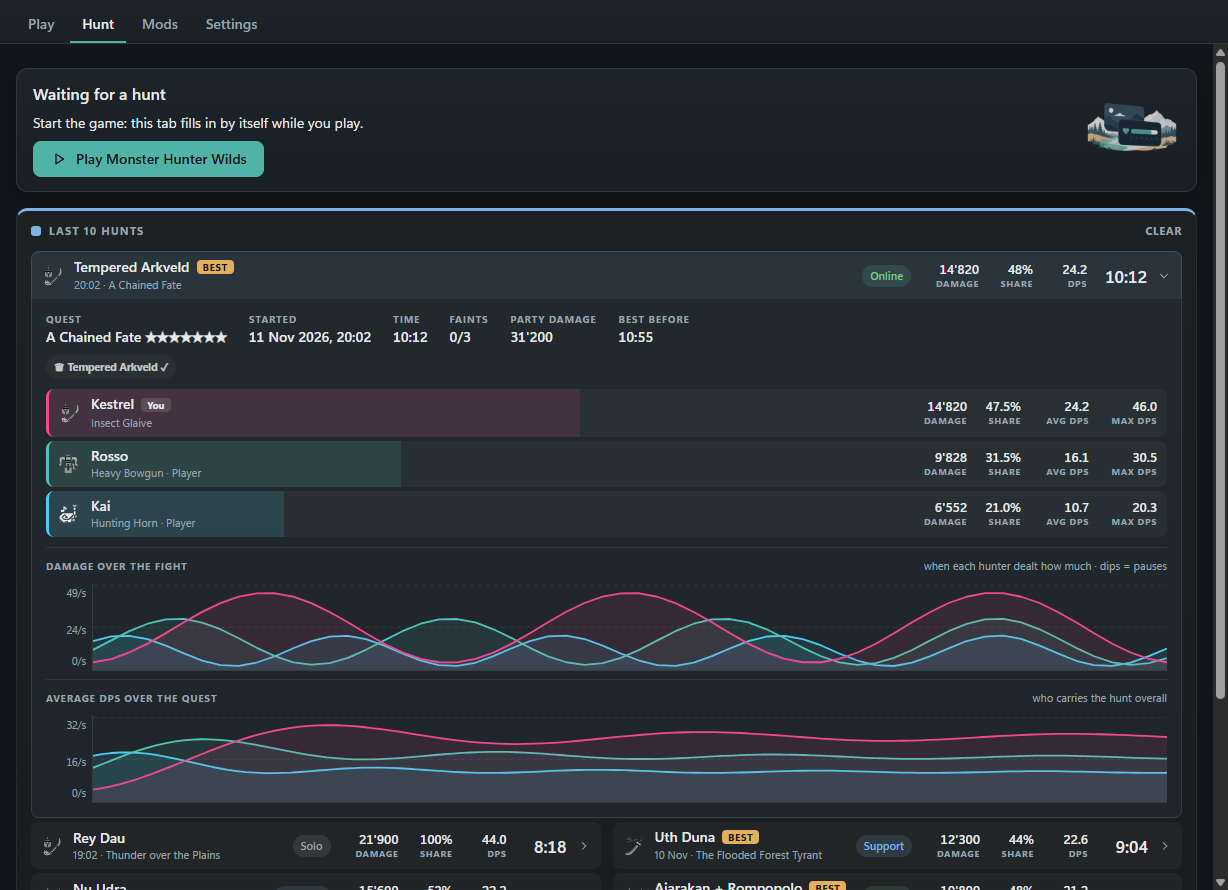
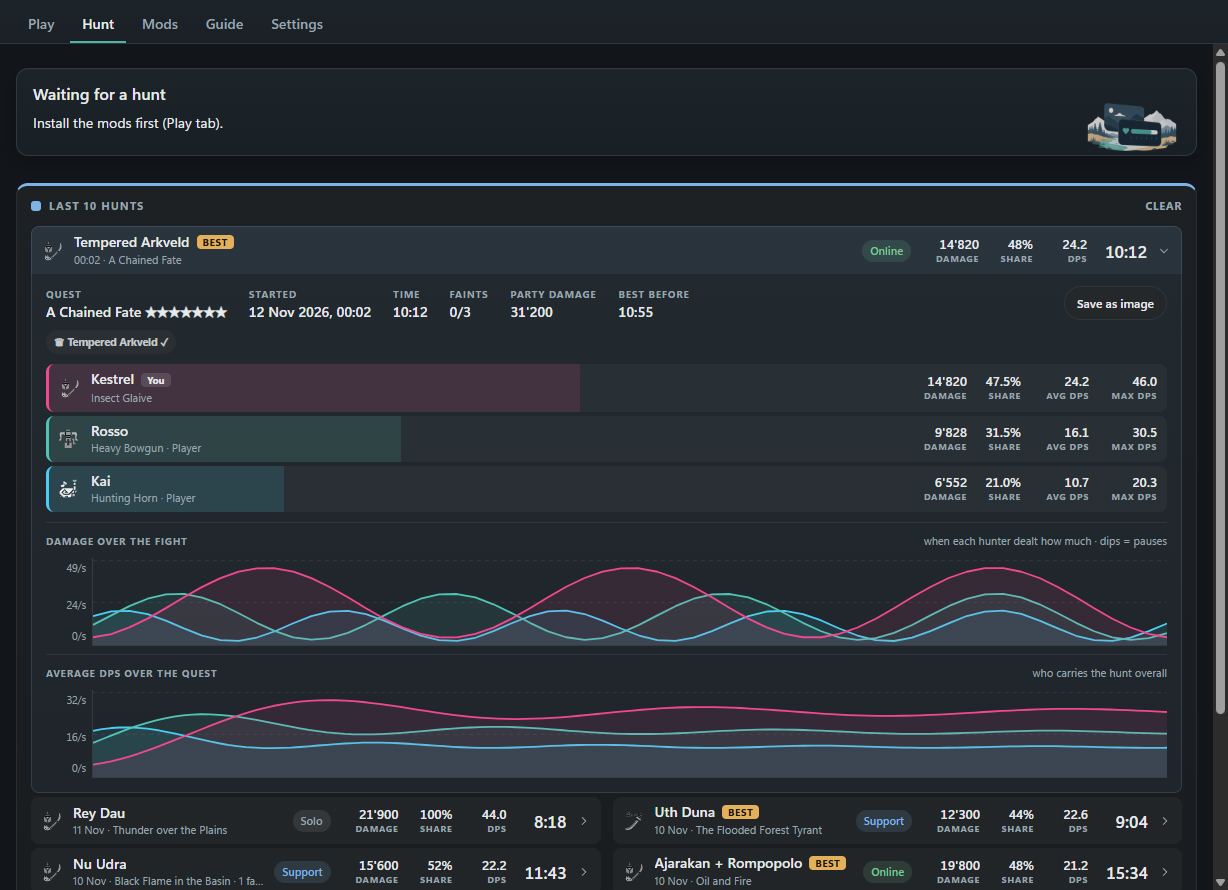
Front page for 0.9.0: weaknesses, guide, share picture

Changed region(s): [[0.0, 0.1213, 0.9902, 1.0], [0.1547, 0.0, 0.2476, 0.0303], [0.9902, 0.7584, 1.0, 0.8191]]

diff --git a/README.md b/README.md
@@ -10,17 +10,35 @@ A small Windows app for **Monster Hunter Wilds** (Steam). One click sets up the 
 
 ### Follow the hunt live
 
-Monster health, parts and status build-up on the left; everyone's damage, share and DPS on the right, with charts of the fight. It runs in its own window, so it fits a second screen and nothing covers the game.
+Monster health, parts and status build-up on the left; everyone's damage, share and DPS on the right, with charts of the fight. It runs in its own window, so it fits a second screen and nothing covers the game. The layout follows the window: two panels side by side on a wide window, one column on a narrow one.
+
+### Know what works on the monster
+
+Under the monster: every element and ailment with a bar from 1 (weak) to 3 (very strong), sorted from best to worst, and whether stun, exhaust, flash pods and sonic bombs work. A gold star line names the body parts where an element hits hardest. Left parts stand in the left column, right parts in the right.
 
 ### Race your personal best
 
-During a quest the app shows your best run of that quest next to the current one: best time, the damage you had at this exact minute back then, DPS and max DPS, and whether you are ahead or behind. Bests are kept per quest, because the same monster has different health in different quests.
+During a quest the app shows your best run of that quest next to the current one: best time, the damage you had at this exact minute back then, DPS and max DPS. Each row shows how far you are ahead (green) or behind (red). Bests are kept per quest, because the same monster has different health in different quests.
 
 ### Look back at your hunts
 
 Your last 10 successful hunts with time, damage, share and whether you went solo, with support hunters or online. Click one to open it: every party member's numbers and a chart of who dealt how much damage when.
 
 ![An opened hunt in the history](img/history.png)
+
+### Share a hunt
+
+**Save as image** on an opened hunt makes a picture of it: clear time, the key numbers, the party's damage and both charts. It is saved to your Pictures folder and copied, ready to paste into a chat.
+
+![A hunt saved as a picture](img/share.png)
+
+### A guide with every monster
+
+The Guide tab explains what every bar, ring and chip means and how each mod works. Under **Monsters** you look up the weaknesses and best spots of all 34 large monsters without being in a hunt.
+
+| How it works | Monsters |
+|---|---|
+| ![Guide: how it works](img/guide.png) | ![Guide: monsters](img/monsters.png) |
 
 ### One button to play
 
@@ -54,9 +72,10 @@ A short tour explains every tab, and you can replay it under Settings → About.
 ## Features
 
 - **One-click setup and removal** of [REFramework](https://github.com/praydog/REFramework) and a build of [HunterPie](https://github.com/HunterPie/HunterPie).
-- **Hunt tab**: target monster with health, stamina, capture line, weaknesses, parts and ailments; other monsters; damage meter with DPS, average and charts.
+- **Hunt tab**: target monster with health, stamina, capture line, parts and status build-up; element and ailment weaknesses in three steps and the best spots to hit; other monsters; damage meter with DPS, average and charts.
 - **Personal bests per quest** with a live comparison during the hunt.
-- **Hunt history**: the last 10 successful hunts, each with full party stats and a damage-over-the-fight chart.
+- **Hunt history**: the last 10 successful hunts, each with full party stats and a damage-over-the-fight chart, and **Save as image** to share one.
+- **Guide tab**: every feature explained, and the weaknesses of all 34 large monsters with search.
 - **Charm, Item and Artian editors, Artian parts, Shop Stock**: optional, off by default.
 - **Save backups** with restore, and a backup before anything is installed.
 - **In-app updates** and a desktop shortcut.
@@ -93,6 +112,7 @@ The exe is not signed, so Windows SmartScreen may show "Windows protected your P
 ## Credits and licences
 
 - **REFramework** by praydog, MIT licence, included unmodified.
+- **Monster weakness values** (elements, ailments, body parts) are game facts collected from the open data set at [wilds.mhdb.io](https://wilds.mhdb.io). A monster from a newer title update can be missing.
 - **HunterPie** by Haato and contributors, Apache License 2.0. The included build is **modified**: one extra read-only service writes the hunt data to a local file for this app. It is not an official HunterPie release. The Hunt tab follows HunterPie's widget design and uses its icons.
 - The editors and Shop Stock are written for Hunter AIO. Thanks to **lingsamuel**, whose Charm, Item and Artian editors showed how the game stores these things.
 - Details and licence texts: [licenses/](licenses/).
@@ -109,9 +129,12 @@ Eine kleine Windows-App für **Monster Hunter Wilds** (Steam). Ein Klick richtet
 
 ### Was die App zeigt
 
-- **Die Jagd live**: links Lebenspunkte, Körperteile und Statusaufbau des Monsters, rechts Schaden, Anteil und DPS aller Jäger mit Diagrammen. Eigenes Fenster, ideal für einen zweiten Bildschirm; nichts verdeckt das Spiel.
+- **Die Jagd live**: links Lebenspunkte, Körperteile und Statusaufbau des Monsters, rechts Schaden, Anteil und DPS aller Jäger mit Diagrammen. Eigenes Fenster, ideal für einen zweiten Bildschirm; nichts verdeckt das Spiel. Die Aufteilung passt sich der Fenstergröße an.
+- **Was beim Monster wirkt**: jedes Element und jeder Statuseffekt mit einem Balken von 1 (schwach) bis 3 (sehr stark), vom besten zum schlechtesten sortiert, dazu ob Betäubung, Erschöpfung, Blitzkapseln und Schallbomben wirken. Eine Zeile mit goldenem Stern nennt die Körperteile, an denen ein Element am stärksten trifft.
 - **Gegen die eigene Bestzeit**: Während einer Quest siehst du deinen besten Lauf dieser Quest neben dem aktuellen: Bestzeit, dein Schaden zur selben Minute, DPS und Max-DPS, dazu ob du vorne oder hinten liegst. Bestzeiten gelten pro Quest, weil dasselbe Monster je nach Quest unterschiedlich viele Lebenspunkte hat.
 - **Jagdverlauf**: die letzten 10 erfolgreichen Jagden mit Zeit, Schaden, Anteil und ob solo, mit Hilfsjägern oder online. Ein Klick öffnet die Jagd mit den Werten aller Jäger und einem Diagramm, wer wann wie viel Schaden gemacht hat.
+- **Jagd teilen**: „Save as image“ macht aus einer geöffneten Jagd ein Bild mit Zeit, den wichtigsten Werten, dem Schaden der Gruppe und beiden Diagrammen. Es wird im Bilderordner gespeichert und kopiert, fertig zum Einfügen in einen Chat.
+- **Guide mit allen Monstern**: Der Guide-Tab erklärt jeden Balken, Ring und jede Markierung und wie die Mods funktionieren. Unter „Monsters“ schlägst du die Schwächen und besten Trefferzonen aller 34 großen Monster nach, ohne auf der Jagd zu sein.
 - **Ein Knopf zum Spielen**: „Install now“ findet das Spiel und richtet alles ein, danach startet „Play“ HunterPie und das Spiel gemeinsam.
 - **Aktualisiert sich selbst**: Die App schaut beim Start hier nach; „Update now“ lädt nur, was sich geändert hat.
 - **Sicherung der Spielstände** mit Wiederherstellung, Desktop-Verknüpfung, kurze Tour beim ersten Start.
@@ -152,6 +175,7 @@ HunterPie braucht die [.NET Desktop Runtime 10.0 (x64)](https://dotnet.microsoft
 ### Credits und Lizenzen
 
 - **REFramework** von praydog, MIT-Lizenz, unverändert enthalten.
+- **Schwächen der Monster** (Elemente, Statuseffekte, Körperteile) sind Spielfakten aus dem offenen Datensatz von [wilds.mhdb.io](https://wilds.mhdb.io). Ein Monster aus einem neueren Title Update kann fehlen.
 - **HunterPie** von Haato und Mitwirkenden, Apache License 2.0. Der enthaltene Build ist **angepasst**: Ein zusätzlicher, nur lesender Dienst schreibt die Jagddaten für diese App in eine lokale Datei. Es ist kein offizielles HunterPie-Release; bitte melde Probleme damit nicht beim HunterPie-Projekt.
 - Die Editoren und Shop Stock sind für Hunter AIO geschrieben. Dank an **lingsamuel**, dessen Charm-, Item- und Artian-Editoren gezeigt haben, wie das Spiel diese Dinge speichert.
 - Details und Lizenztexte: [licenses/](licenses/).
